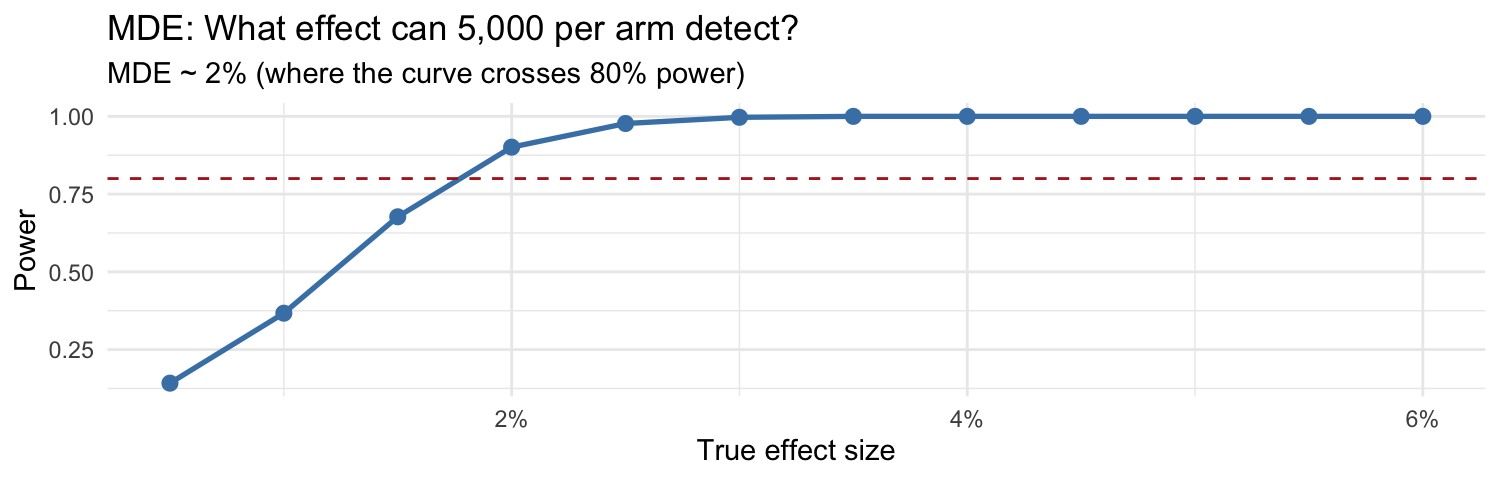
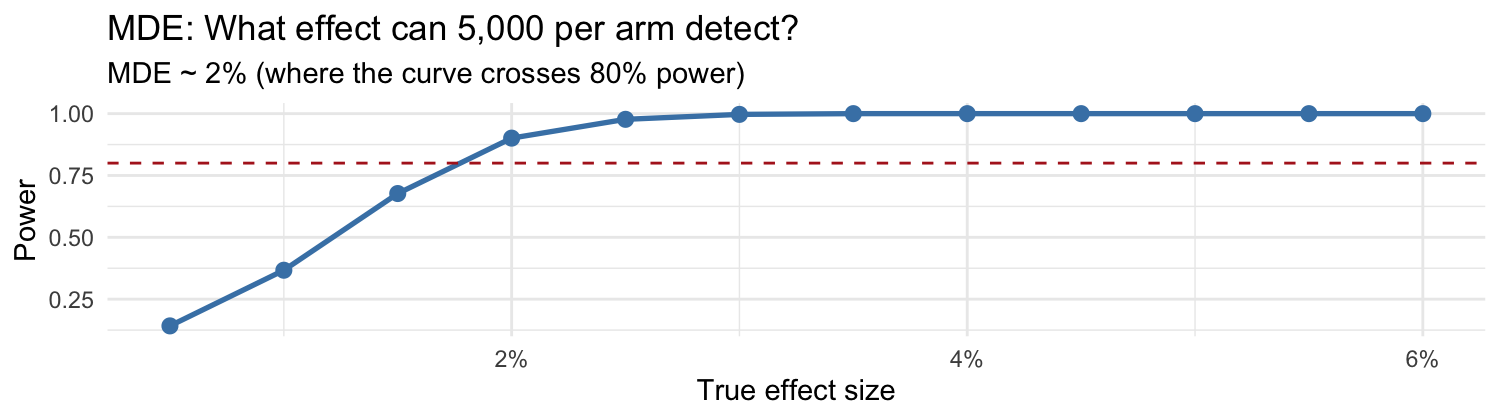
M4: fix three overflow bugs found in a full-deck audit
- MDE curve: reduced fig.height so the x-axis title stops clipping
  off the bottom edge.
- More Clusters vs. Bigger Clusters: switched to a log x-axis so the
  cluster-size labels stop overlapping at the low end and the
  rightmost label stops clipping off the right edge.
- Reducing Variance with Pre-Treatment Covariates: wrapped the code
  chunk in .tiny[] so the CUPED-preview highlight-box, previously
  pushed entirely off the slide, is fully visible with margin.

diff --git a/module-04/slides.html b/module-04/slides.html
@@ -353,6 +353,7 @@ You can boost power without more users by **reducing residual variance**:
 
 --
 
+.tiny[
 
 ```r
 sim_power_covariate &lt;- function(n_per_arm, effect, r_squared, nsim = 1000) {
@@ -379,6 +380,7 @@ cat("With covariate (R^2=0.3):", sim_power_covariate(2000, effect = 0.1, r_squar
 ```
 ## With covariate (R^2=0.3): 0.964
 ```
+]
 
 --
 
